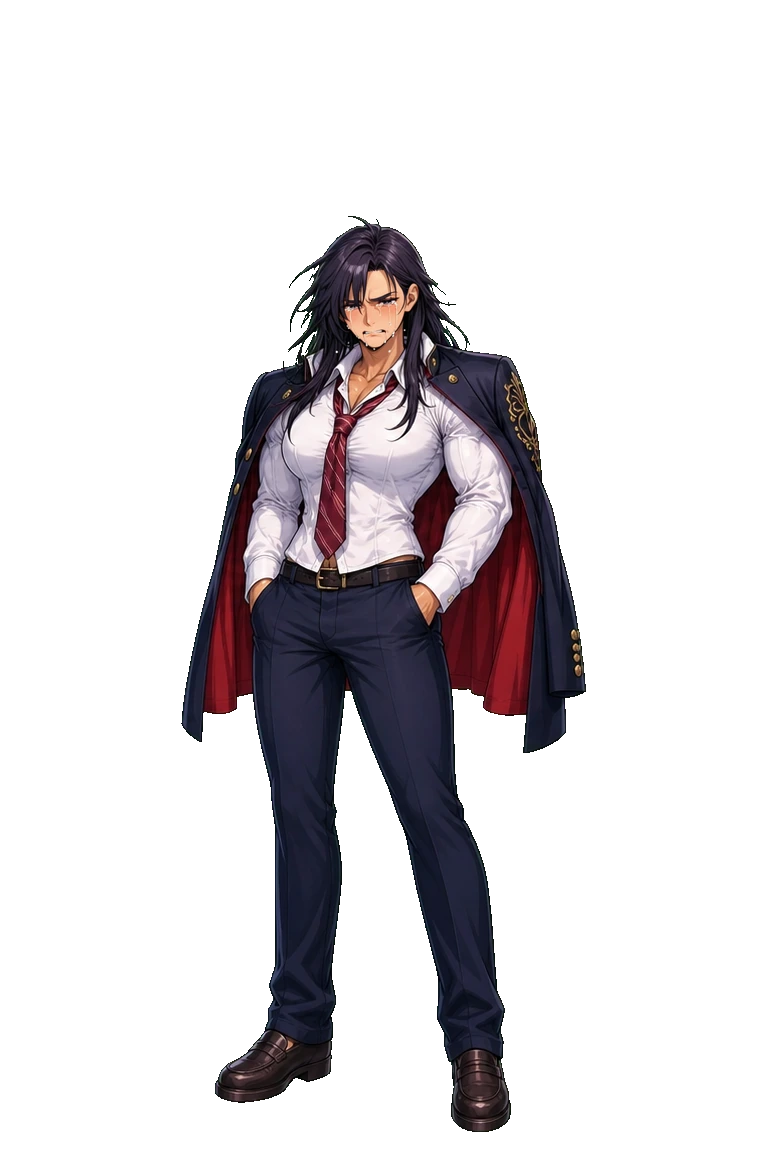
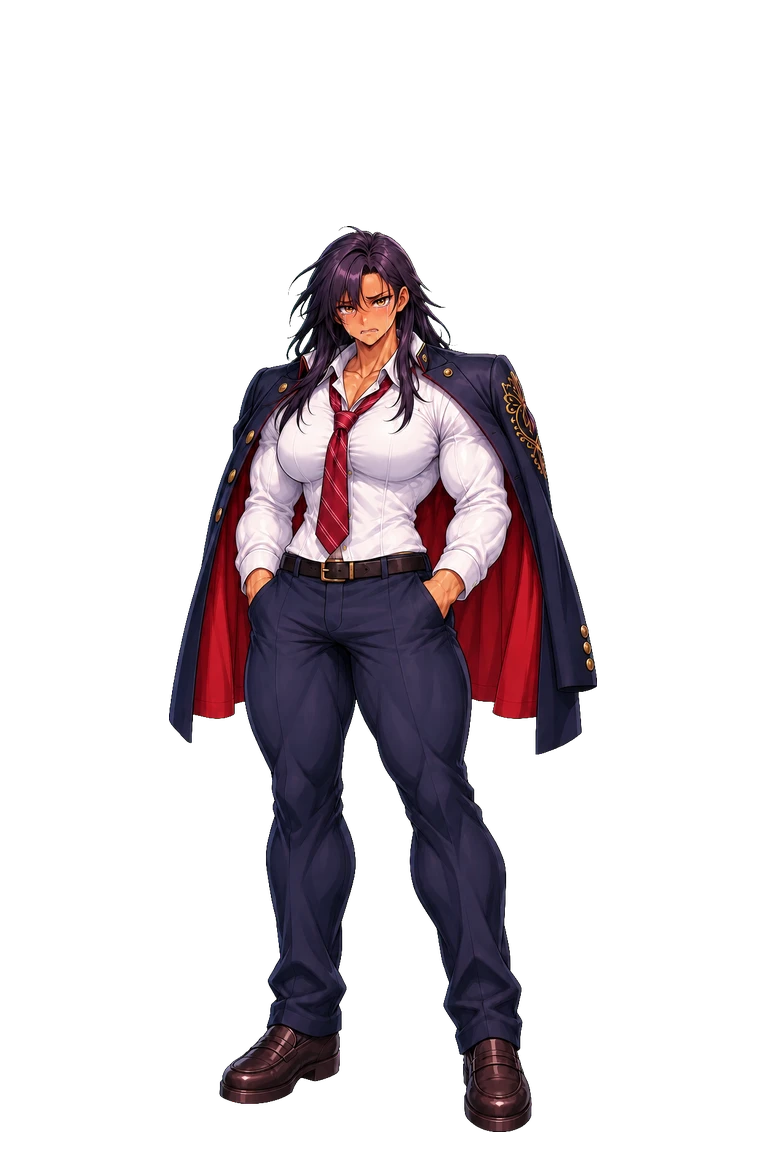
Redraw Sae's stage1 sprites so she is visibly muscular
Her stage1 set was nearly identical to her normal form. Regenerated all
8 expressions at a midpoint between her normal and stage2 builds, sized
to match her other stages. Adds install_sprites.py for keying/aligning.

Changed region(s): [[0.2188, 0.1875, 0.7812, 1.0], [0.5312, 0.7188, 0.5938, 0.8125]]

diff --git a/game/art_regen/run_jobs.py b/game/art_regen/run_jobs.py
@@ -36,6 +36,22 @@ JOBS = [
     ("promo_keyvisual", ["osananajimi_stage1_smile", "seitokai_stage1_default", "gyaru_stage1_smile", "otaku_stage1_default",
                          "kakutogi_stage1_smile", "furyo_stage1_default", "imouto_stage1_smile", "akuma_neutral_smile"],
      "Promotional key visual, 16:9 landscape, dramatic and polished like a game poster. Exactly seven very muscular high-school heroines standing together in a confident group pose, full bodies or from the knees up, each matching one attached heroine reference exactly (same hair, outfit, skin tone): brown side-ponytail girl in white sailor uniform; long black-haired girl in glasses, navy blazer and black tights, arms crossed; blonde tanned girl in pink jacket flexing; short purple-haired girl in glasses and gray hoodie; tanned ponytail girl in black sports top and white martial-arts pants with fists raised; wavy black-haired girl in long navy coat and red necktie; brown twin-tailed girl in navy blazer and beige vest. Above and behind them floats the small black devil cat from the last reference (red eyes, horns, bat wings, one heart-tipped tail) grinning. Background: deep crimson and black magical sky with glowing red contract sigils and a full moon, rim lighting on the girls. No boy, no extra people. Leave the bottom 22 percent of the image as a dark, plain, low-detail area for text overlay. No text, no letters, no logo, no watermark."),
+    ("furyo_stage1_default", ["furyo_neutral_default", "furyo_stage2_default", "gyaru_stage1_default"],
+     "Character standing sprite, portrait 2:3, full body from head to shoes with margin, centered, same framing, pose and art style as the first reference. The girl from the first reference (long wavy black hair, sharp golden eyes, dark navy long coat with red lining draped over her shoulders, white shirt, loose red necktie, dark navy trousers, brown shoes, hands in pockets, cool expression), but now clearly MUSCULAR: a midpoint between the first reference and the second reference (her monster-level form). Use the third reference girl's muscle level as the target: broad shoulders, thick arms straining the shirt sleeves, a thick neck, a wide back, strong thighs filling out the trousers. Clearly more muscular than the first reference, clearly less than the second. Same face, same outfit, same neutral cool expression. " + GREEN),
+    ("furyo_stage1_angry", ["furyo_stage1_default.png"],
+     "Edit the reference image. Keep EVERYTHING identical to the reference: same character, same pose, same muscular body, same outfit, same size and position in the frame, same lighting and art style, same flat pure green (#00FF00) background. Change ONLY her facial expression to an angry glare: furrowed brows, narrowed eyes, teeth slightly gritted. Nothing else changes."),
+    ("furyo_stage1_blush", ["furyo_stage1_default.png"],
+     "Edit the reference image. Keep EVERYTHING identical to the reference: same character, same pose, same muscular body, same outfit, same size and position in the frame, same lighting and art style, same flat pure green (#00FF00) background. Change ONLY her facial expression to embarrassed: cheeks clearly blushing red, eyes looking away to the side, small pout. Nothing else changes."),
+    ("furyo_stage1_crying", ["furyo_stage1_default.png"],
+     "Edit the reference image. Keep EVERYTHING identical to the reference: same character, same pose, same muscular body, same outfit, same size and position in the frame, same lighting and art style, same flat pure green (#00FF00) background. Change ONLY her facial expression to crying: tears streaming down her cheeks, glistening eyes, trembling lips. Nothing else changes."),
+    ("furyo_stage1_flustered", ["furyo_stage1_default.png"],
+     "Edit the reference image. Keep EVERYTHING identical to the reference: same character, same pose, same muscular body, same outfit, same size and position in the frame, same lighting and art style, same flat pure green (#00FF00) background. Change ONLY her facial expression to flustered: wide eyes, face flushed red, mouth slightly open in panic, a small sweat drop. Nothing else changes."),
+    ("furyo_stage1_sad", ["furyo_stage1_default.png"],
+     "Edit the reference image. Keep EVERYTHING identical to the reference: same character, same pose, same muscular body, same outfit, same size and position in the frame, same lighting and art style, same flat pure green (#00FF00) background. Change ONLY her facial expression to sad: downcast eyes, eyebrows raised in sorrow, slight frown. Nothing else changes."),
+    ("furyo_stage1_smile", ["furyo_stage1_default.png"],
+     "Edit the reference image. Keep EVERYTHING identical to the reference: same character, same pose, same muscular body, same outfit, same size and position in the frame, same lighting and art style, same flat pure green (#00FF00) background. Change ONLY her facial expression to a soft gentle smile with relaxed eyes, a rare warm look. Nothing else changes."),
+    ("furyo_stage1_surprised", ["furyo_stage1_default.png"],
+     "Edit the reference image. Keep EVERYTHING identical to the reference: same character, same pose, same muscular body, same outfit, same size and position in the frame, same lighting and art style, same flat pure green (#00FF00) background. Change ONLY her facial expression to surprised: wide open eyes, raised eyebrows, mouth open. Nothing else changes."),
 ]
 
 HEADER = """Use your built-in image generation tool (not code, not ComfyUI) to create ONE image, then copy it as a PNG file to:
@@ -57,7 +73,7 @@ for name, refs, body in JOBS:
     (HERE / f"prompt_{name}.txt").write_text(prompt, encoding="utf-8")
     cmd = [CODEX, "exec", "--skip-git-repo-check", "-s", "workspace-write", "-C", str(HERE)]
     for r in refs:
-        cmd += ["-i", str(CH / f"{r}.webp")]
+        cmd += ["-i", str(HERE / r) if r.endswith(".png") else str(CH / f"{r}.webp")]
     cmd.append("-")
     with open(HERE / f"log_{name}.txt", "w", encoding="utf-8") as log:
         rc = subprocess.run(cmd, input=prompt.encode("utf-8"), stdout=log, stderr=subprocess.STDOUT).returncode

diff --git a/game/art_regen/install_sprites.py b/game/art_regen/install_sprites.py
@@ -1,0 +1,59 @@
+"""
+Chroma-key generated sprites (green background) and install them into public/assets/characters.
+
+  python install_sprites.py furyo_stage1_default furyo_stage1_smile ...
+
+Each sprite is scaled so its height and foot line match a reference sprite of the same
+character (default: <char>_neutral_default), so switching stages doesn't make her jump in size.
+The previous file is backed up to old/ first.
+"""
+import shutil
+import sys
+from pathlib import Path
+
+import numpy as np
+from PIL import Image
+
+HERE = Path(__file__).resolve().parent
+CH = HERE.parent / "public" / "assets" / "characters"
+SIZE = (768, 1152)
+
+
+def key_green(img):
+    a = np.asarray(img.convert("RGB")).astype(np.float32)
+    r, g, b = a[..., 0], a[..., 1], a[..., 2]
+    d = g - np.maximum(r, b)
+    alpha = 1 - np.clip((d - 25) / (90 - 25), 0, 1)
+    g = np.where(d > 0, np.maximum(r, b), g)  # remove green spill
+    return Image.fromarray(np.dstack([r, g, b, alpha * 255]).clip(0, 255).astype(np.uint8), "RGBA")
+
+
+def bbox(img):
+    return img.getchannel("A").point(lambda v: 255 if v > 40 else 0).getbbox()
+
+
+def install(name, ref_name=None):
+    char = name.split("_")[0]
+    ref = Image.open(CH / f"{ref_name or char + '_neutral_default'}.webp").convert("RGBA")
+    rb = bbox(ref)
+    sprite = key_green(Image.open(HERE / f"{name}.png"))
+    sb = bbox(sprite)
+    crop = sprite.crop(sb)
+    scale = (rb[3] - rb[1]) / crop.height
+    crop = crop.resize((round(crop.width * scale), round(crop.height * scale)), Image.LANCZOS)
+    out = Image.new("RGBA", SIZE, (0, 0, 0, 0))
+    cx = (rb[0] + rb[2]) // 2
+    out.alpha_composite(crop, (max(0, cx - crop.width // 2), rb[3] - crop.height))
+    dst = CH / f"{name}.webp"
+    if dst.exists():
+        (HERE / "old").mkdir(exist_ok=True)
+        backup = HERE / "old" / f"{name}.webp"
+        if not backup.exists():
+            shutil.copy(dst, backup)
+    out.save(dst, "WEBP", quality=90)
+    print("installed", dst.name, "scale", round(scale, 3))
+
+
+if __name__ == "__main__":
+    for n in sys.argv[1:]:
+        install(n)
